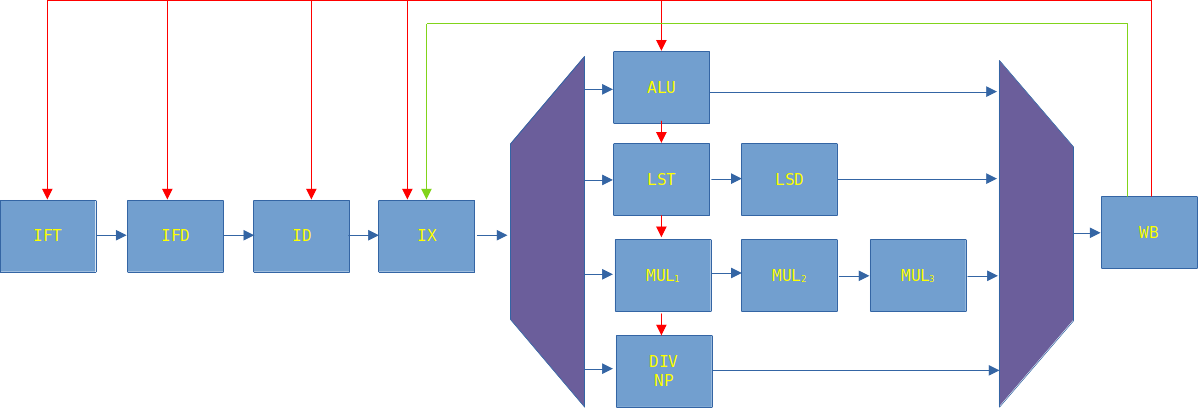
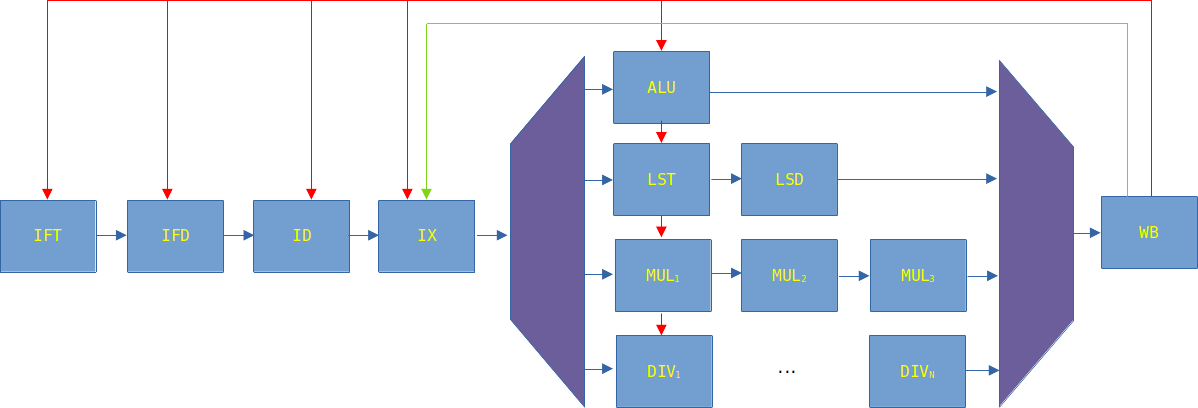
Switch to pipelined divider

Changed region(s): [[0.7104, 0.8235, 0.8339, 1.0], [0.525, 0.8529, 0.5868, 0.9412], [0.6486, 0.8824, 0.6795, 0.9118]]

diff --git a/README.md b/README.md
@@ -1,6 +1,6 @@
 # Accellant
-A demo SoC implementation with a simple 6-10-stage RISC-V CPU and various I/O cores realized on [Arty S7](https://digilent.com/reference/programmable-logic/arty-s7/start) FPGA.
+A demo SoC implementation with a simple 6-23 stage RISC-V CPU and various I/O cores realized on [Arty S7](https://digilent.com/reference/programmable-logic/arty-s7/start) FPGA. The CPU supports a 256 MB DDR3 SDRAM with separate 8 Kb 4-way I$ and 16 Kb 4-way write-back, write-allocate D$.
 
-The CPU supports a 256 MB DDR3 SDRAM with separate 8 Kb 4-way I$ and 16 Kb 4-way write-back, write-allocate D$.
+Upon reset, a bootloader is executed from the instruction ROM to load a program via serial port onto RAM and then the core jumps to application code after setting up the necessary stack pointer, program data, etc.
 
 ![accellant_cpu](https://github.com/NotCamelCase/Accellant/blob/master/docs/accellant_cpu.png)
